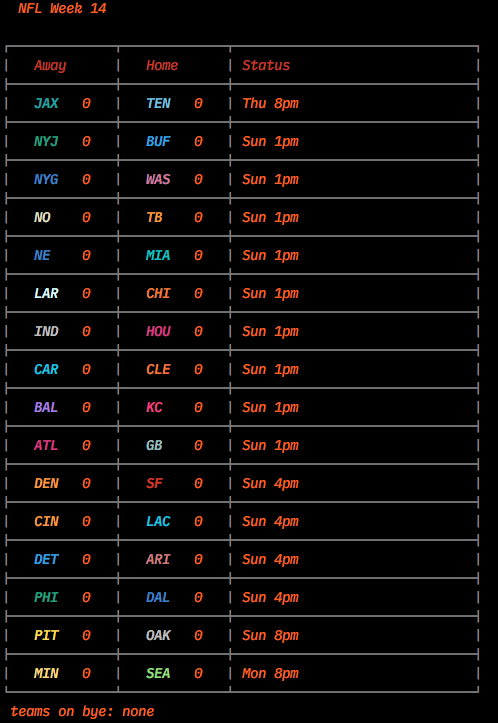
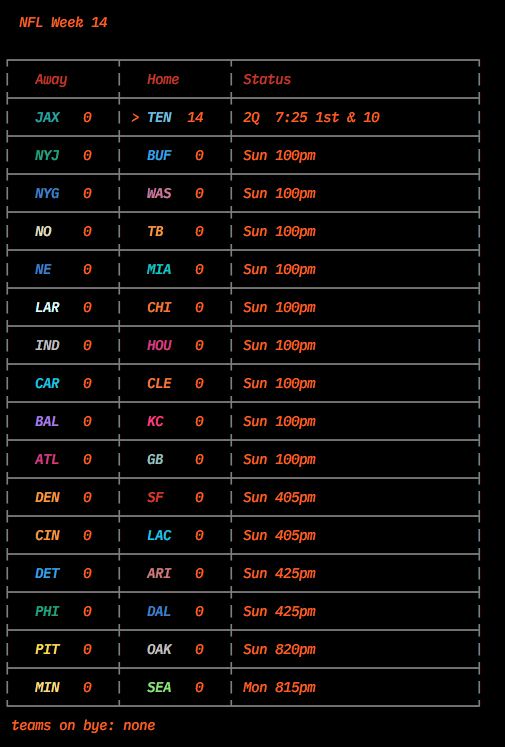
screenshot in action

Changed region(s): [[0.0, 0.0, 0.9639, 1.0]]

diff --git a/src/utilities.js b/src/utilities.js
@@ -1,5 +1,5 @@
 const format = require("date-fns/format");
-var subHours = require('date-fns/sub_hours')
+const subHours = require('date-fns/sub_hours')
 const chalk = require("chalk");
 
 const NUM_SUFFIXES = {
@@ -74,7 +74,8 @@ module.exports = {
     return `\n teams on bye: none\n`;
   },
   gameDateMaker: date => {
-    date = subHours(date, +5)
+    // GMT timezone adjustment, necessary for Heroku deployment
+    // date = subHours(date, +5)
     return format(date, "ddd hmma");
   },
   possessionAway: (possession, awayTeam) => {
